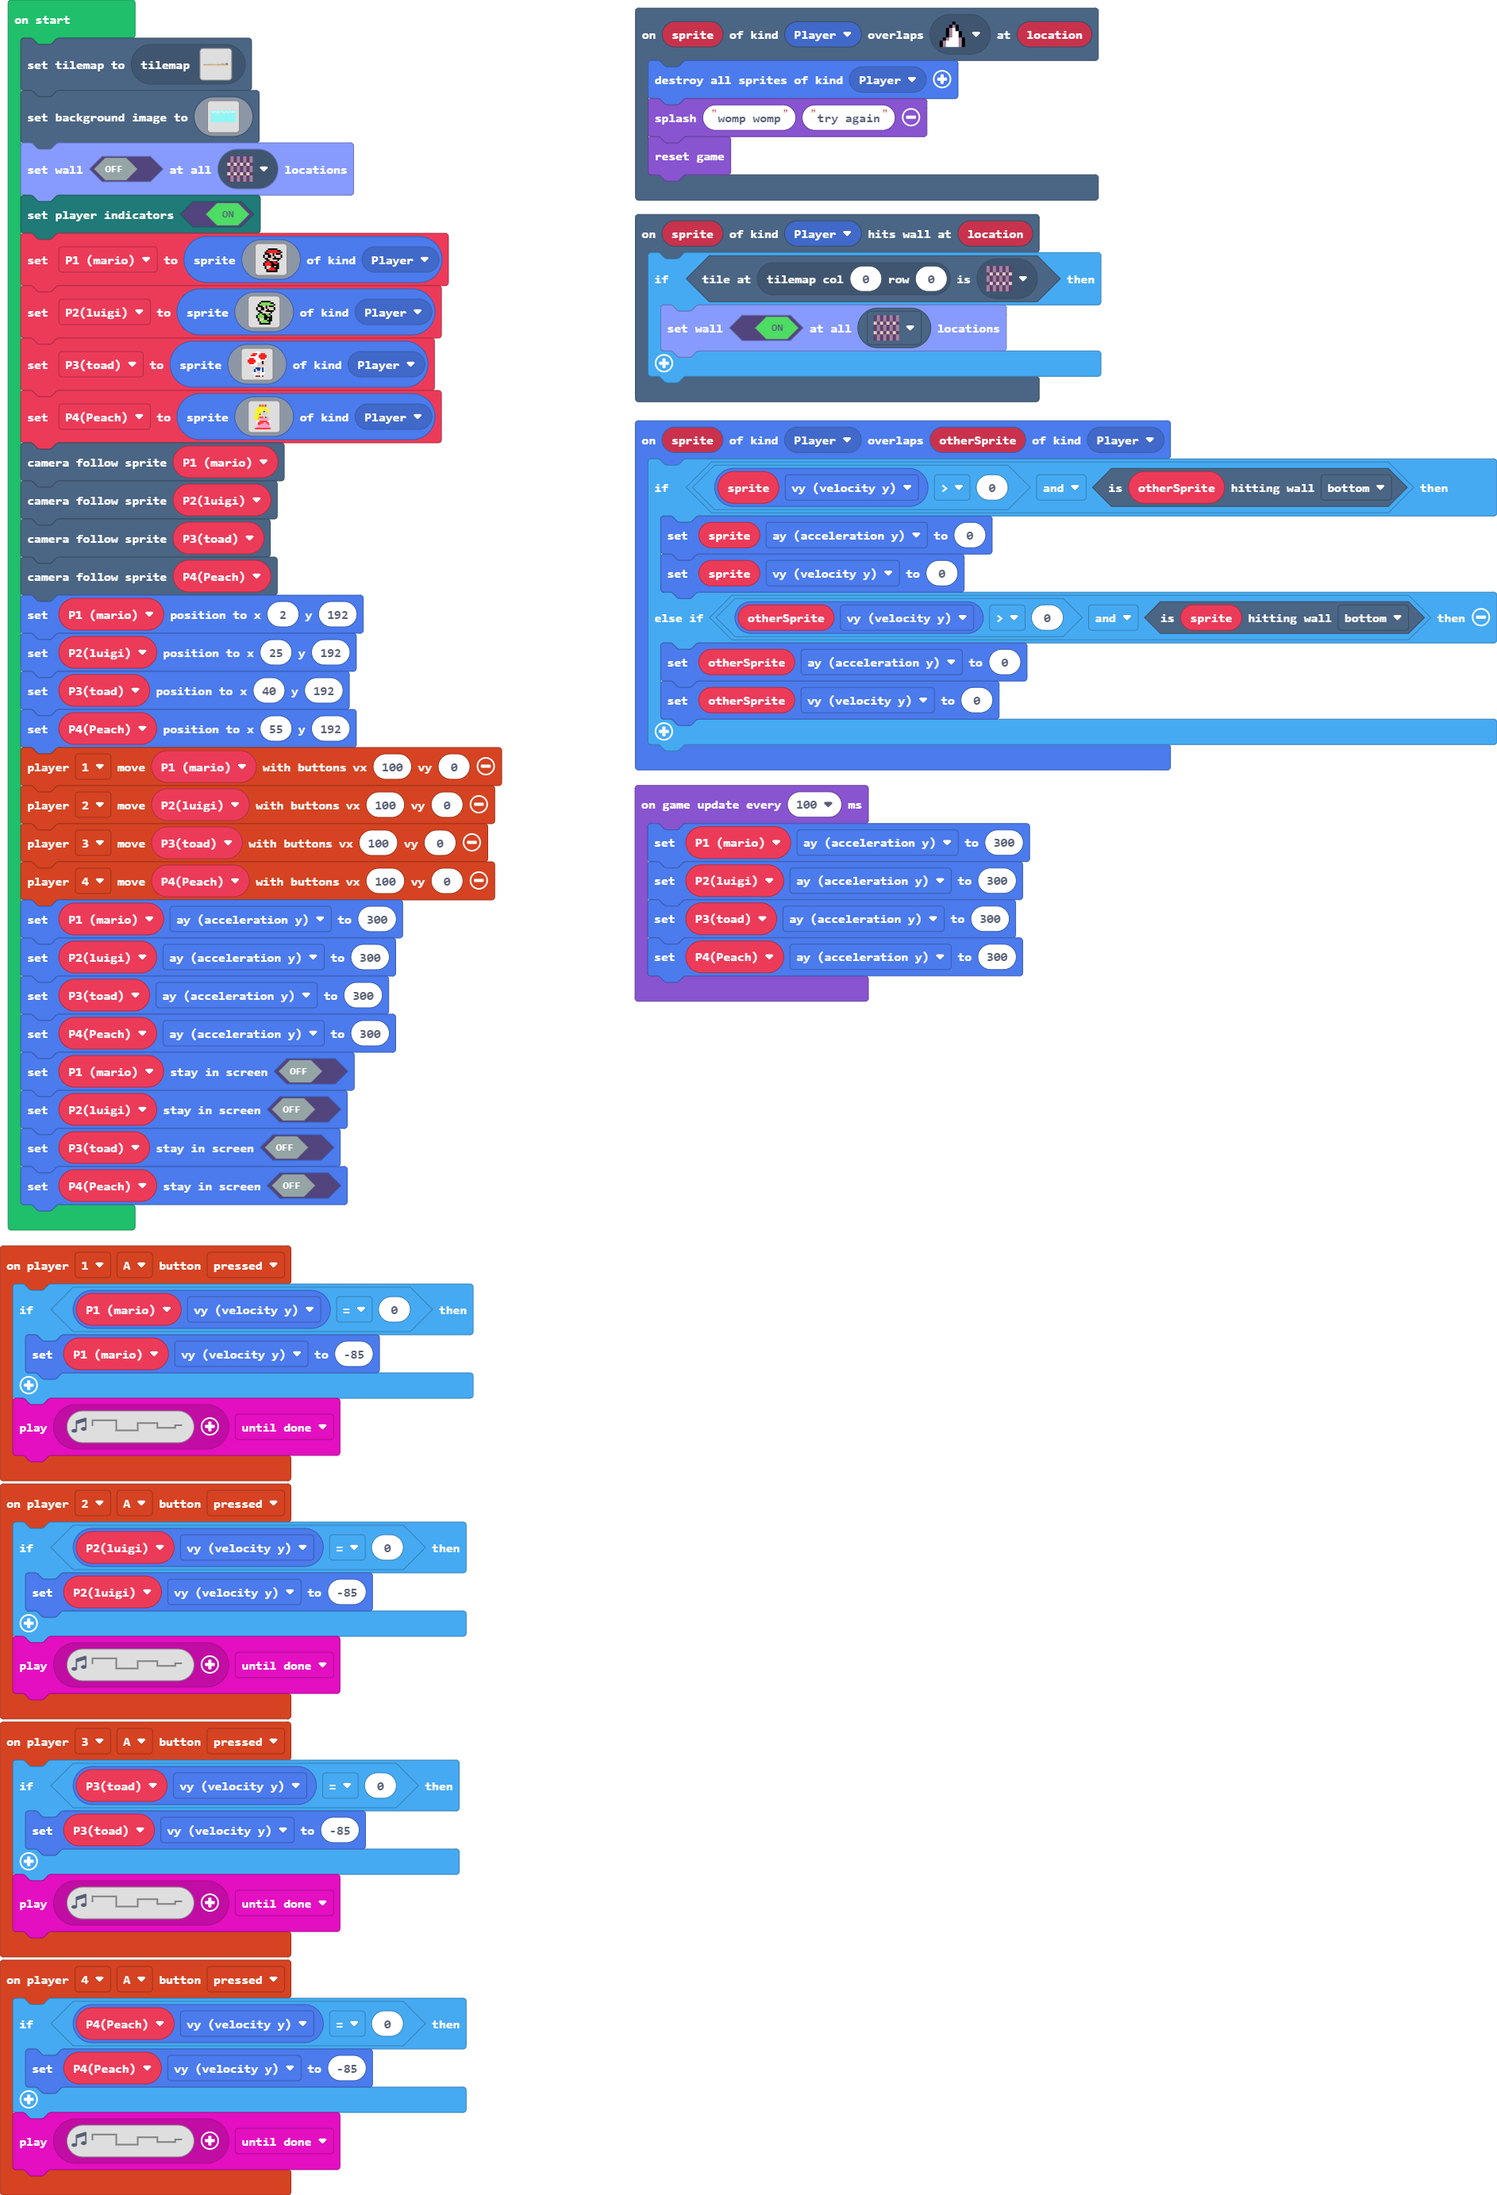
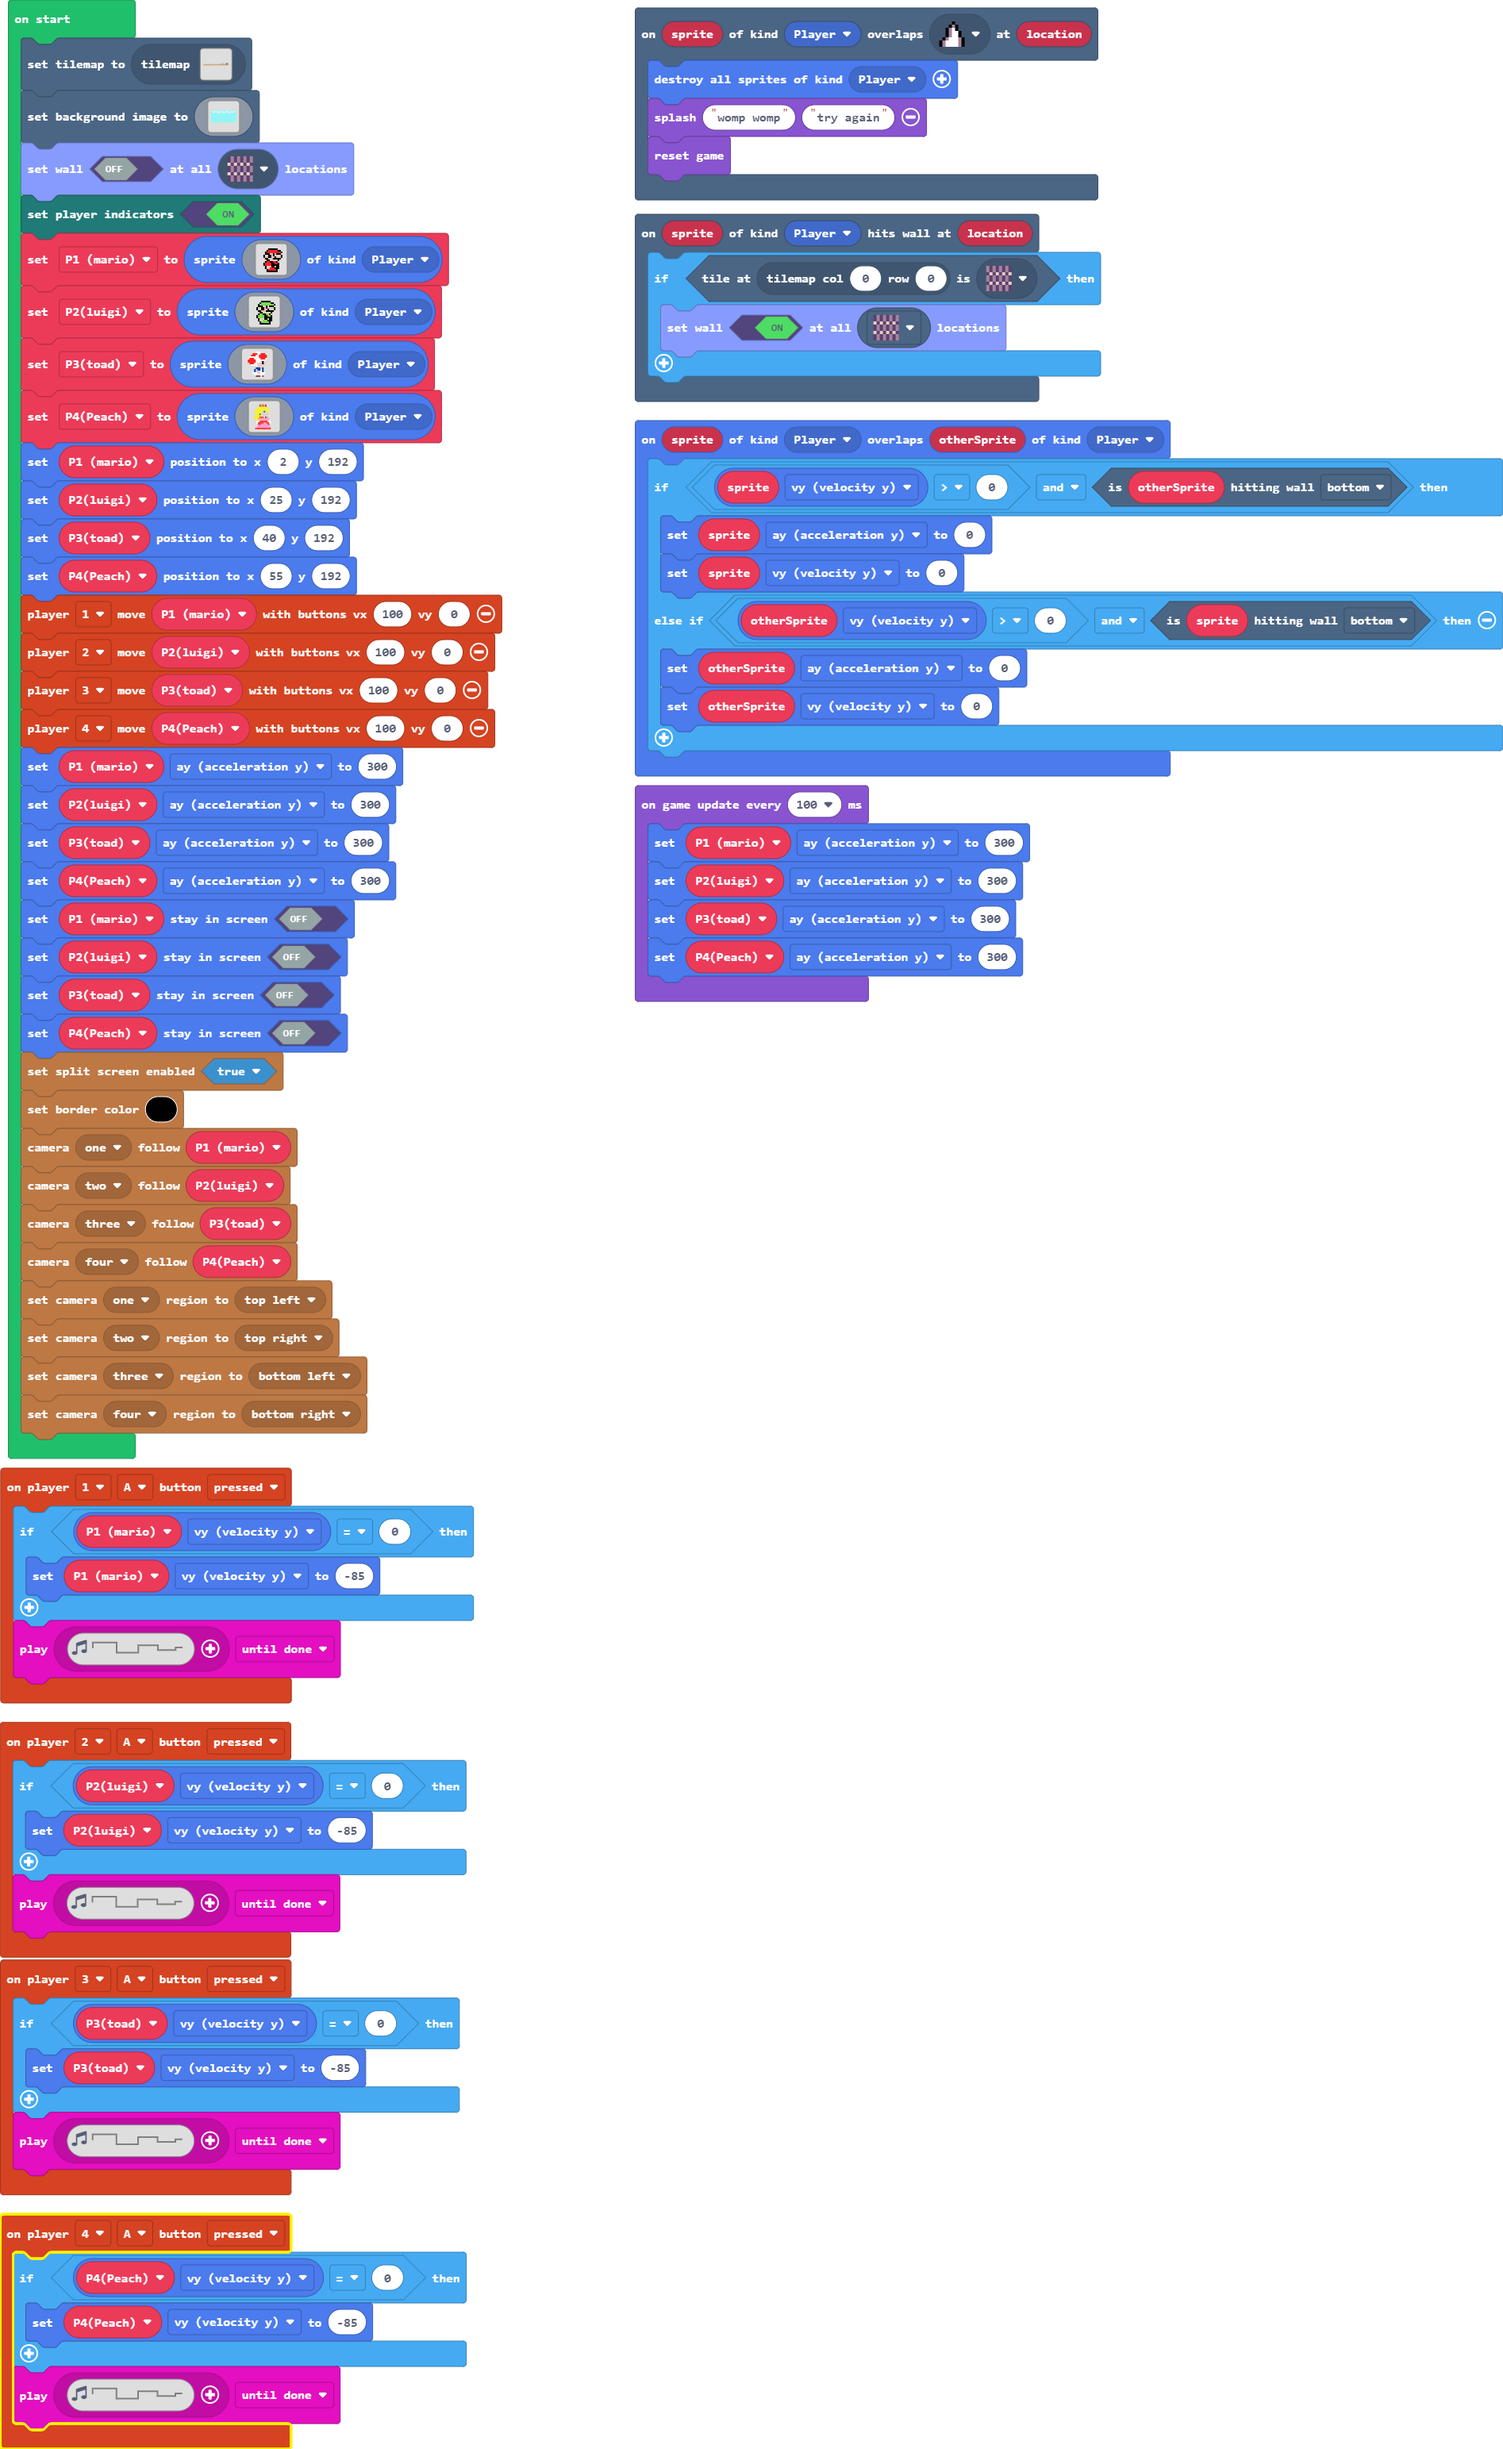
Update pxt.json, main.blocks, main.ts

diff --git a/main.ts b/main.ts
@@ -174,10 +174,6 @@ P1_mario = sprites.create(assets.image`myImage`, SpriteKind.Player)
 P2luigi = sprites.create(assets.image`myImage0`, SpriteKind.Player)
 P3toad = sprites.create(assets.image`myImage1`, SpriteKind.Player)
 P4Peach = sprites.create(assets.image`myImage2`, SpriteKind.Player)
-scene.cameraFollowSprite(P1_mario)
-scene.cameraFollowSprite(P2luigi)
-scene.cameraFollowSprite(P3toad)
-scene.cameraFollowSprite(P4Peach)
 P1_mario.setPosition(2, 192)
 P2luigi.setPosition(25, 192)
 P3toad.setPosition(40, 192)
@@ -194,6 +190,16 @@ P1_mario.setStayInScreen(false)
 P2luigi.setStayInScreen(false)
 P3toad.setStayInScreen(false)
 P4Peach.setStayInScreen(false)
+splitScreen.setSplitScreenEnabled(true)
+splitScreen.setBorderColor(15)
+splitScreen.cameraFollowSprite(splitScreen.Camera.Camera1, P1_mario)
+splitScreen.cameraFollowSprite(splitScreen.Camera.Camera2, P2luigi)
+splitScreen.cameraFollowSprite(splitScreen.Camera.Camera3, P3toad)
+splitScreen.cameraFollowSprite(splitScreen.Camera.Camera4, P4Peach)
+splitScreen.setCameraRegion(splitScreen.Camera.Camera1, splitScreen.CameraRegion.TopLeft)
+splitScreen.setCameraRegion(splitScreen.Camera.Camera2, splitScreen.CameraRegion.TopRight)
+splitScreen.setCameraRegion(splitScreen.Camera.Camera3, splitScreen.CameraRegion.BottomLeft)
+splitScreen.setCameraRegion(splitScreen.Camera.Camera4, splitScreen.CameraRegion.BottomRight)
 game.onUpdateInterval(100, function () {
     P1_mario.ay = 300
     P2luigi.ay = 300
